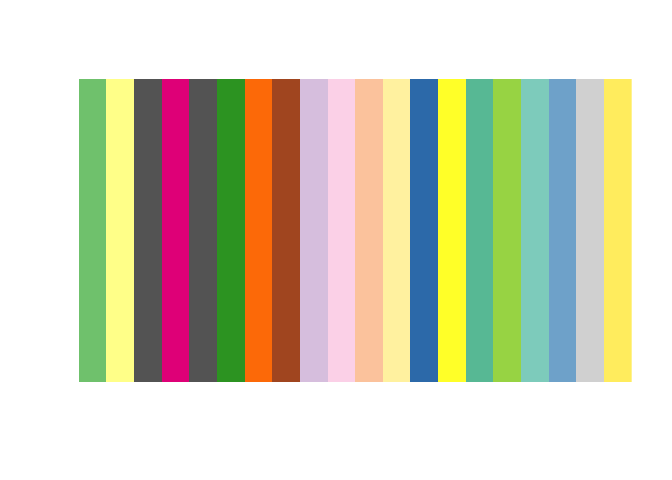
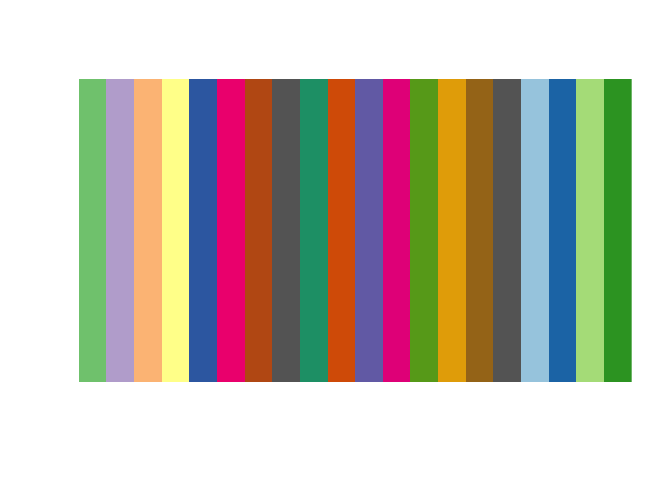
insert n argument in qual function

diff --git a/GetColors.md b/GetColors.md
@@ -17,7 +17,7 @@ getSeqColors <- function(color, N) {
 getQualColors <- function(n) {
 qual_col_pals = brewer.pal.info[brewer.pal.info$category == 'qual',]
 col_vector = unlist(mapply(brewer.pal, qual_col_pals$maxcolors, 
-rownames(qual_col_pals)))
+rownames(qual_col_pals)))[1:n]
 return(col_vector)
 }
 ```
@@ -68,15 +68,7 @@ colorVecQual
 
     ##  [1] "#7FC97F" "#BEAED4" "#FDC086" "#FFFF99" "#386CB0" "#F0027F" "#BF5B17"
     ##  [8] "#666666" "#1B9E77" "#D95F02" "#7570B3" "#E7298A" "#66A61E" "#E6AB02"
-    ## [15] "#A6761D" "#666666" "#A6CEE3" "#1F78B4" "#B2DF8A" "#33A02C" "#FB9A99"
-    ## [22] "#E31A1C" "#FDBF6F" "#FF7F00" "#CAB2D6" "#6A3D9A" "#FFFF99" "#B15928"
-    ## [29] "#FBB4AE" "#B3CDE3" "#CCEBC5" "#DECBE4" "#FED9A6" "#FFFFCC" "#E5D8BD"
-    ## [36] "#FDDAEC" "#F2F2F2" "#B3E2CD" "#FDCDAC" "#CBD5E8" "#F4CAE4" "#E6F5C9"
-    ## [43] "#FFF2AE" "#F1E2CC" "#CCCCCC" "#E41A1C" "#377EB8" "#4DAF4A" "#984EA3"
-    ## [50] "#FF7F00" "#FFFF33" "#A65628" "#F781BF" "#999999" "#66C2A5" "#FC8D62"
-    ## [57] "#8DA0CB" "#E78AC3" "#A6D854" "#FFD92F" "#E5C494" "#B3B3B3" "#8DD3C7"
-    ## [64] "#FFFFB3" "#BEBADA" "#FB8072" "#80B1D3" "#FDB462" "#B3DE69" "#FCCDE5"
-    ## [71] "#D9D9D9" "#BC80BD" "#CCEBC5" "#FFED6F"
+    ## [15] "#A6761D" "#666666" "#A6CEE3" "#1F78B4" "#B2DF8A" "#33A02C"
 
 ``` r
 mat <- matrix(rep(1:20, each = 20))
